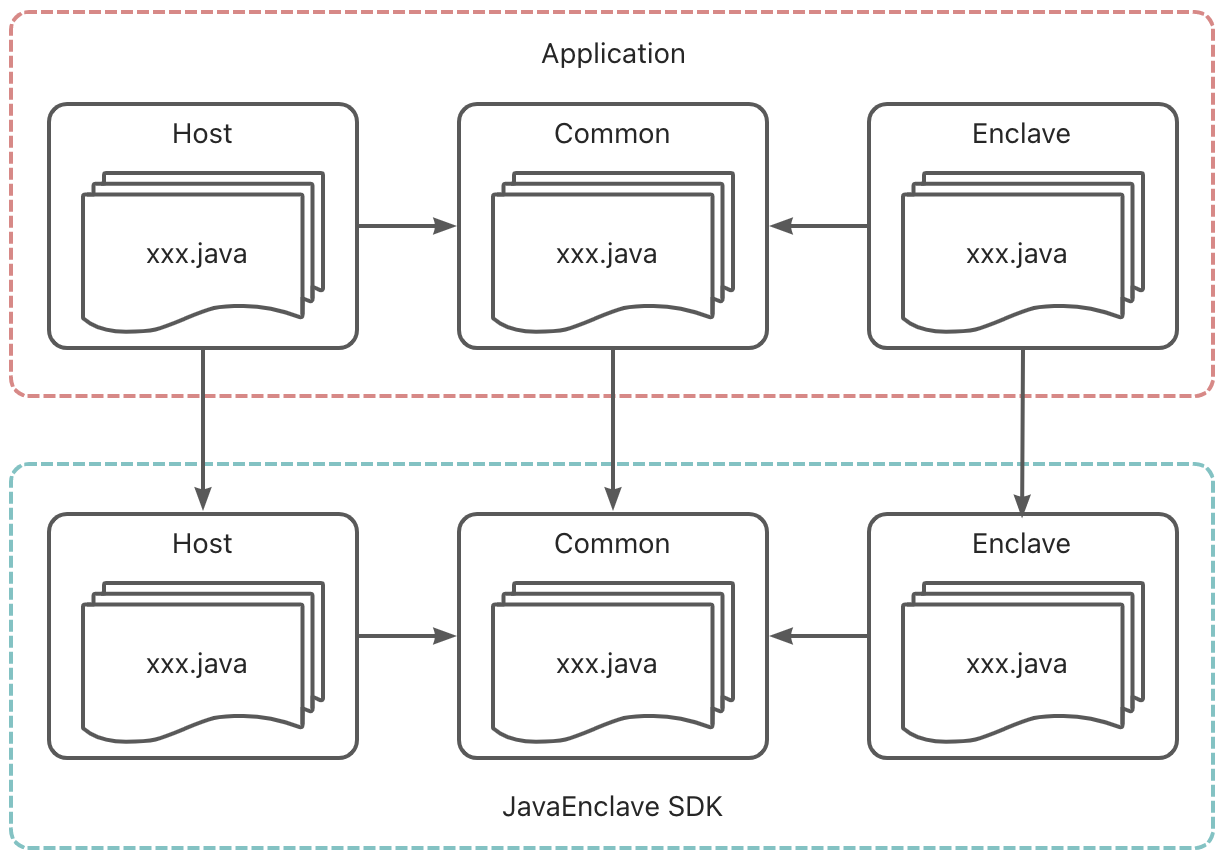
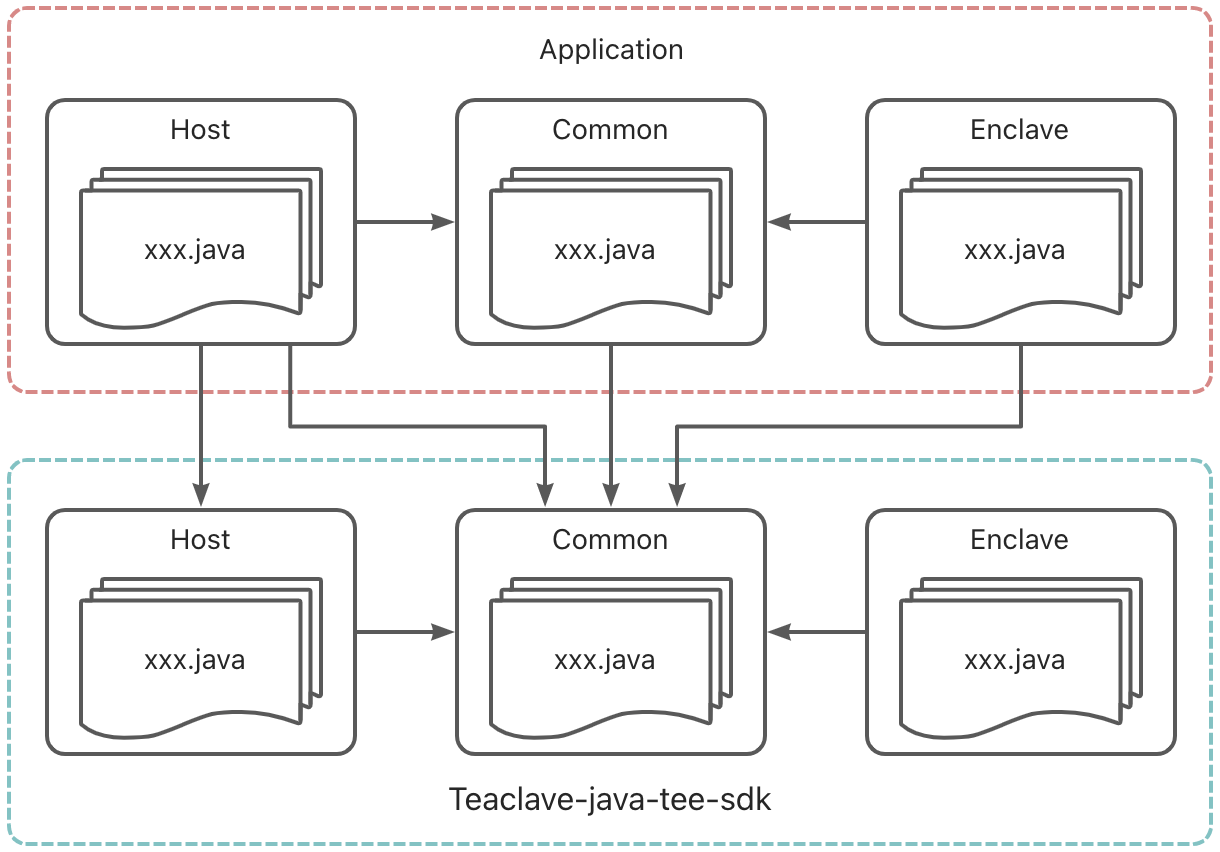
[misc] Add proposal.md file for donation to Apache Teaclave
Summary: Add proposal.md file for donation to Apache Teaclave.

Test Plan: all tests pass

Reviewers: lei.yul, cengfeng.lzy, sanhong.lsh

Issue: https://aone.alibaba-inc.com/task/45491707

CR: https://code.aone.alibaba-inc.com/java-tee/JavaEnclave/codereview/10408127

diff --git a/README.md b/README.md
@@ -1,10 +1,10 @@
 ## What's Teaclave-java-tee-sdk?
 
-Teaclave-java-tee-sdk is a Java confidential computing programming model. It follows the host-and-enclave partition programming model defined by Intel-SGX SDK. Teaclave-java-tee-sdk provides an elegant way to divide a java project into host and enclave modules, the enclave module is a provider of a user-defined service interface, it's similar to the SPI development model. Teaclave-java-tee-sdk could help you to develop and build a Java confidential computing project with high efficiency.
+Teaclave-java-tee-sdk is a Java confidential computing programming framework. It follows the host-and-enclave partition programming model defined by Intel-SGX SDK. Teaclave-java-tee-sdk provides an elegant way to divide a java project into host and enclave modules, where the enclave module is a provider of a user-defined service interface which is similar to the Java SPI model. Teaclave-java-tee-sdk could help you to develop and build a Java confidential computing project with high efficiency.
 
 ## Why do we need Teaclave-java-tee-sdk?
 
-Occlum and Gramine libOS solutions run the entire Java application inside the enclave. Although it's much easier for end users, it suffers from a large TCB(Trusted Computing Base) that may compromise the security to some degree. On the other hand, Intel-SGX and OpenEnclave SDKs are more secure by only running the sensitive code inside the enclave, but they are limited to C/C++ ecosystem, and the development experience for programmers is unfriendly. For Example, it requests the programmer to provide an unknown .edl file, which defines the interface between host and enclave. While Teaclave-java-tee-sdk provides a pure java development interface for programmers to develop a Java confidential computing application with high security, programmers do not need to provide any configured file, it also provides a concise API to create enclaves and invoke enclave service. In one word, Teaclave-java-tee-sdk makes SPI Provider a confidential computing service.
+Occlum and Gramine libOS solutions run the entire Java application inside the enclave. Although it's much easier for end users, it suffers from a large TCB(Trusted Computing Base) that may compromise the security to some degree. On the other hand, Intel-SGX and OpenEnclave SDKs are more secure by only running the sensitive code inside the enclave, but they are limited to C/C++ ecosystem, and the development experience for programmers is unfriendly. For Example, it requests the programmer to provide an unknown .edl file, which defines the interface between host and enclave. While Teaclave-java-tee-sdk provides a Pure Java SDK API for Java confidential computing application development. It eases the interactions between secured and unsecured environment with a few concise APIs. From user's aspect, creating an enclave environment and invoking confidential computing services would be as simple as invoking SPI services.
 
 ## Teaclave-java-tee-sdk architecture
 
@@ -24,15 +24,28 @@ Teaclave-java-tee-sdk provides seven components:
 
 - Teaclave-java-tee-sdk Docker, provides a standard build and execution environment for Java confidential computing applications.
 
-![avatar](./docs/resources/JavaEnclave_Architecture.png)
+<br />
+<div  align="center">
+<img src="./docs/resources/JavaEnclave_Architecture.png" width = "400" height = "400" alt="Teaclave-java-tee-sdk Architecture" align=center />
+</div>
+<center>Teaclave-java-tee-sdk Architecture</center>
+<br />
 
 ## Confidential computing Java project structure based on Teaclave-java-tee-sdk
 
 A Java confidential computing application project based on Teaclave-java-tee-sdk is a maven project which consists of three submodules, they are host submodule, enclave submodule, and common submodule. The common submodule contains the service interface definition, the enclave submodule implements the interface defined in the common submodule, host submodule contains the management of the enclave instance and service instance. We can view the enclave submodule as an SPI provider, Teaclave-java-tee-sdk will help to run the provider in an enclave, the provider could be compiled to a native image or a jar file.
 
-![avatar](./docs/resources/JavaEnclave_Application_Dependency.png)
-
-![avatar](./docs/resources/JavaEnclave_Project_Structure.png)
+<br />
+<div  align="center">
+<img src="./docs/resources/JavaEnclave_Application_Dependency.png" width = "400" height = "300" alt="Teaclave-java-tee-sdk Application Dependency" align=center />
+</div>
+<center>Teaclave-java-tee-sdk Application Dependency</center>
+<br />
+<div  align="center">
+<img src="./docs/resources/JavaEnclave_Project_Structure.png" width = "400" height = "400" alt="Teaclave-java-tee-sdk Project Structure" align=center />
+</div>
+<center>Teaclave-java-tee-sdk Project Structure</center>
+<br />
 
 ## Getting started
 
@@ -42,7 +55,7 @@ A Java confidential computing application project based on Teaclave-java-tee-sdk
 
 `apt install cpuid && cpuid -1 -l 0x12`
 
-![avatar](./docs/resources/SGX2_Supported_Check.png)
+<img src="./docs/resources/SGX2_Supported_Check.png" width = "300" height = "100" alt="Teaclave-java-tee-sdk Application Dependency" align=center />
 
 if SGX2 is not supported, only MOCK_IN_JVM and MOCK_IN_SVM enclave modes in Teaclave-java-tee-sdk could be run normally.
 

diff --git a/Proposal.md b/Proposal.md
@@ -1,0 +1,103 @@
+======== Proposal =======
+
+## Abstract
+
+JavaEnclave is a Java confidential computing programming framework. It follows the host-and-enclave partition programming model defined by Intel-SGX SDK. 
+JavaEnclave provides an elegant way to divide a java project into host and enclave modules, where the enclave module is a provider of a user-defined service interface which is similar to the Java SPI model. JavaEnclave could help you to develop and build a Java confidential computing project with high efficiency.
+
+## Proposal
+
+JavaEnclave is a pure Java SDK for Java confidential computing. It eases the interactions between secured and unsecured environment with a few concise APIs.
+From user's aspect, creating an enclave environment and invoking confidential computing services would be as simple as invoking SPI services.
+
+### Background
+
+The JavaEnclave project is being actively developed within Alibaba Cloud.
+
+### Rationale
+
+JavaEnclave is a Java confidential computing programming framework. The goal of Teaclave is to provide a universal secure computing platform for multiple programming languages. Teaclave currently supports Rust, Python and WebAssembly, but Java is still missing. JavaEnclave would be an important piece of the puzzle.
+
+### Initial Goals
+
+- Transfer the repository to the Apache Incubator under the Teaclave project
+- Code cleanup and more documentation
+
+#### Meritocracy:
+
+JavaEnclave project was originally developed and reviewed by Shaojun Wang/Ziyi Lin/Lei Yu/Sanhong Li within Alibaba Cloud. We encourage everyone to ask questions and create pull requests for the project.
+
+#### Community:
+
+JavaEnclave was developed and applied within Alibaba Cloud before it was donated to Teaclave.
+
+#### Core Developers:
+
+The core developers are:
+- Shaojun Wang (jeffery.wsj@alibaba-inc.com)
+- Ziyi Lin (cengfeng.lzy@alibaba-inc.com)
+
+#### Alignment:
+
+The project is complimentary of Teaclave's TEE backends.
+
+### Known Risks
+
+An exercise in self-knowledge. Risks don't mean that a project is unacceptable. If they are recognized and noted, then they can be addressed during incubation.
+
+#### Project Name
+
+Since the project will be accepted as a subproject in Teaclave, the project is renamed Teaclave-java-tee-sdk.
+
+#### Inexperience with Open Source:
+
+JavaEnclave has been reviewed by Mingshen Sun, who is from the Teaclave community. He's familiar with The Apache Way for the open-source community.
+
+#### Length of Incubation:
+
+The project will be in incubation with Apache Teaclave (incubating) project.
+
+### Documentation
+
+- N/A
+
+### Initial Source
+
+- N/A
+
+### Source and Intellectual Property Submission Plan
+
+We will submit a Software Grant for this project later.
+
+#### External Dependencies:
+
+The dependencies have Apache compatible license, which is provided under the BSD 2-Clause license and GPL2.0 license.
+
+#### Cryptography:
+
+N/A
+
+### Required Resources
+
+#### Mailing lists:
+
+The project shares the same mailing list of Teaclave.
+
+#### Git Repositories:
+
+- N/A
+
+#### Issue Tracking:
+
+Same with Teaclave.
+
+#### Other Resources:
+
+N/A
+
+### Initial Committers
+
+- Shaojun Wang (jeffery.wsj@alibaba-inc.com)
+- Ziyi Lin (cengfeng.lzy@alibaba-inc.com)
+- Lei Yu (lei.yul@alibaba-inc.com)
+- Sanhong Li (sanhong.lsh@alibaba-inc.com)
